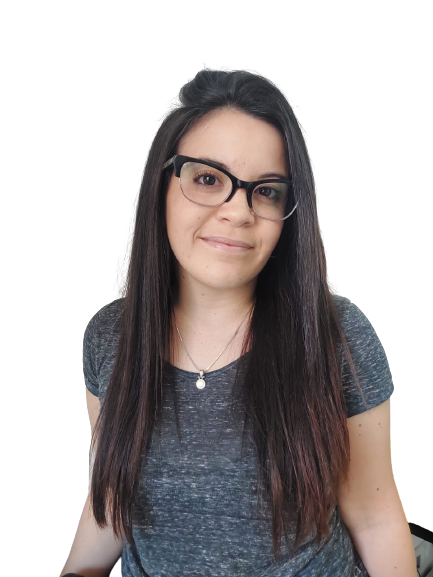
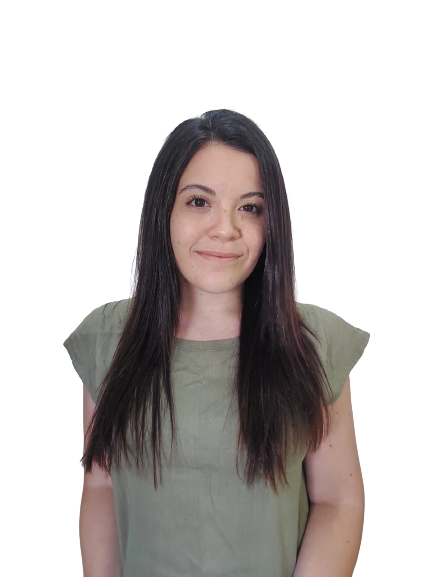
about component

diff --git a/portfolio/src/components/about/about.css b/portfolio/src/components/about/about.css
@@ -1,0 +1,103 @@
+.about__container{
+    display: grid;
+    grid-template-columns: 35% 50%;
+    gap: 15%;
+    margin:0 auto;
+}
+
+.about__me{
+    width: 100%;
+    aspect-ratio: 1/1;
+    border-radius: 2rem;
+    background: linear-gradient(45deg, transparent, var(--color-primary), transparent);
+    display: grid;
+    place-items: center;
+
+}
+
+.about__me img{
+    border-radius: 2rem;
+    overflow: hidden;
+    transform: rotate(10deg);
+    transition: var(--transition);
+    height: 100%;
+}
+
+.about__me img:hover{
+    transform: rotate(0);
+}
+
+.about__cards{
+    display: grid;
+    grid-template-columns: repeat(3, 1fr);
+    gap: 1.5rem;
+}
+.about__card{
+    background: var(--color-bg-variant);
+    border:1px solid transparent;
+    border-radius: 1rem;
+    padding: 2rem;
+    text-align: center;
+    transition: var(--transition);
+}
+
+.about__card:hover{
+    background: transparent;
+    border-color: var(--color-primary);
+    cursor: default;
+}
+
+.about__icon{
+    color: var(--color-primary);
+    font-size: 1.4rem;
+    margin-bottom: 1rem;
+}
+
+.about__card h5{
+    font-size: 0.95rem;
+}
+
+.about__card small{
+font-size: 0.7rem;
+color:var(--color-light);
+
+}
+
+.about__content p {
+margin: 2rem 0 2.6rem;
+color: var(--color-light);
+}
+
+/* media queries --> medium devices*/
+@media screen and (max-width: 1024px) {
+    .about__container{
+        grid-template-columns: 1fr;
+        gap: 0;
+        justify-content: center;
+    }
+    .about__me{
+        width: 50%;
+        margin: 2rem auto 4rem;
+    }
+    .about__content p  {
+        margin: 1rem 0 1.5rem;
+    }
+}
+/* media queries --> small devices*/
+@media screen and (max-width: 600px) {
+    .about__me{
+        width: 65%;
+        margin:0 auto 3rem;
+    }
+    .about__cards{
+        grid-template-columns: 1fr 1fr;
+        justify-content: center;
+        gap: 0.5rem;
+    }
+    .about__container{
+        text-align: center;
+    }
+    .about__content p {
+        margin: 1.5rem 0;
+    }
+}

diff --git a/portfolio/src/components/about/About.jsx b/portfolio/src/components/about/About.jsx
@@ -1,8 +1,47 @@
 import React from 'react'
 import './about.css'
+import ME from '../../assets/me2.jpeg'
+import { RiAwardFill } from 'react-icons/ri'
+import { BsFolder } from 'react-icons/bs'
+import { TbMessageLanguage } from 'react-icons/tb'
+
+
 
 export default function About() {
   return (
-    <section id="about"></section>
+    <section id="about">
+      <h5>Get to know</h5>
+      <h2>About me</h2>
+      <div className="container about__container">
+        <div className="about__me">
+          <img src={ME} alt="Me" />
+        </div>
+        <div className="about__content">
+          <div className="about__cards">
+            <article className='about__card'>
+              <RiAwardFill className='about__icon'/>
+              <h5>Experience</h5>
+              <small>Trainee</small>
+            </article>
+            <article className='about__card'>
+              <TbMessageLanguage className='about__icon'/>
+              <h5>Languages</h5>
+              <small>English & Spanish</small>
+            </article>
+            <article className='about__card'>
+              <BsFolder className='about__icon'/>
+              <h5>Projects</h5>
+              <small>2 Bootcamp Projects</small>
+            </article>
+          </div>
+          <p>
+            Hi! I'm Tamara, I started as a self-taught on platforms such as freeCampCode and SoloLearn, then studied at CoderHouse and Henry and now I'm fullstack developer based in Argentina.
+            I am passionate about working in teams, and my main focus is to get my first job experience.
+          </p>
+          <a href="#contact" className='btn btn-primary'>Contact Me</a>
+        </div>
+
+</div>
+    </section>
   )
 }

diff --git a/portfolio/src/components/header/Header.jsx b/portfolio/src/components/header/Header.jsx
@@ -11,7 +11,7 @@ function Header() {
         <h5>Hello I'm</h5>
         <h1>Tamara Antonella Frazzetta</h1>
         <h5 className="text-light">
-Fullstack developer
+          Fullstack Developer
         </h5>
         <Cta />
         <HeaderSocial/>
@@ -19,7 +19,6 @@ Fullstack developer
           <img src={ME} alt=""/>
         </div>
         <a href="#contact" className='scroll__down'>Scroll Down</a>
-
       </div>
     </header>
   )

diff --git a/portfolio/src/components/header/header.css b/portfolio/src/components/header/header.css
@@ -47,8 +47,11 @@ header {
   margin-top: 3rem;
   border-radius: 12rem 12rem 0 0;
   overflow: hidden;
-  padding: 5rem 1.5rem 1.5rem 1.5rem;
+  padding: 4rem 1.5rem 1.5rem 1.5rem;
 }
+/* .me img{
+  height: 100%;
+} */
 
 /* Scroll down */
 .scroll__down {
